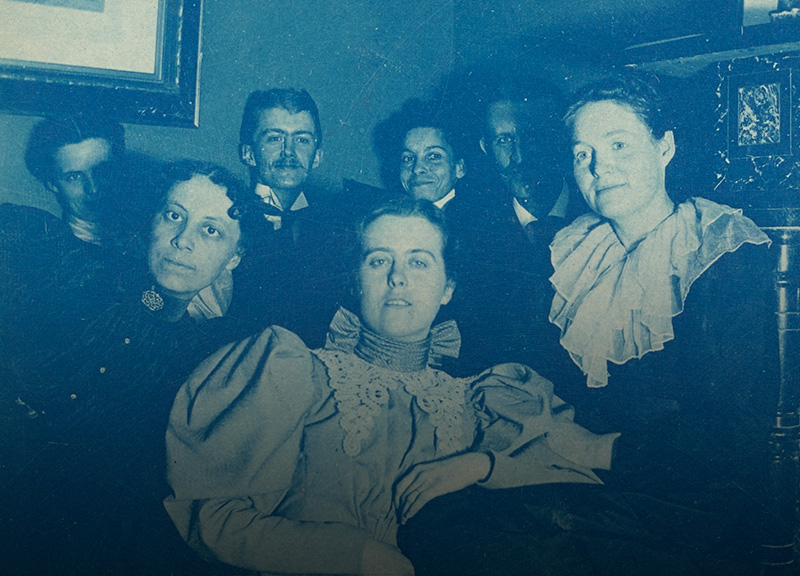
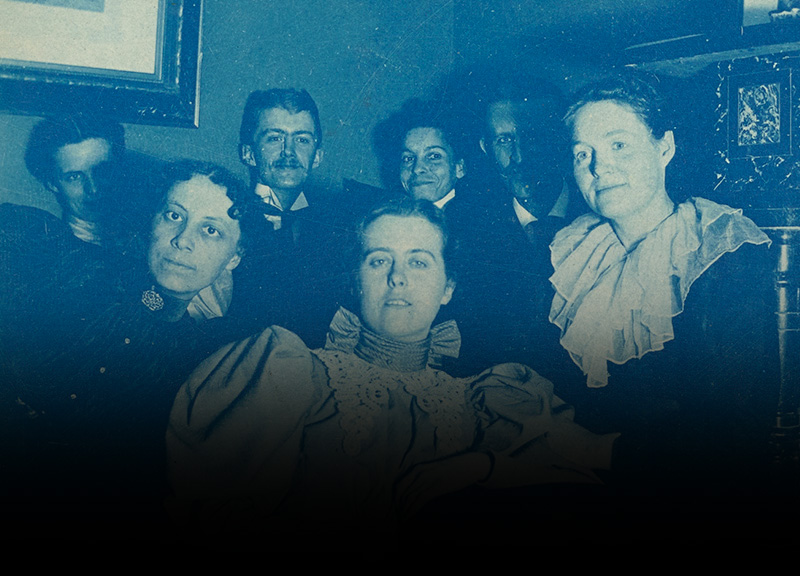
Slide show 2

diff --git a/css/front-page.css b/css/front-page.css
@@ -10,6 +10,42 @@
 }
 
 
+/*Indicator Test*/
+/* Indicators list style */
+.article-slide .carousel-indicators {
+    bottom: 0;
+    left: 0;
+    margin-left: 5px;
+    width: 100%;
+}
+/* Indicators list style */
+.article-slide .carousel-indicators li {
+    border: medium none;
+    border-radius: 0;
+    float: left;
+    height: 54px;
+    margin-bottom: 5px;
+    margin-left: 0;
+    margin-right: 5px !important;
+    margin-top: 0;
+    width: 100px;
+}
+/* Indicators images style */
+.article-slide .carousel-indicators img {
+    border: 2px solid #FFFFFF;
+    float: left;
+    height: 54px;
+    left: 0;
+    width: 100px;
+}
+/* Indicators active image style */
+.article-slide .carousel-indicators .active img {
+    border: 2px solid #428BCA;
+    opacity: 0.7;
+}
+/**/
+
+
 /* HEADER
 -----------------------------------*/
 
@@ -135,8 +171,9 @@
     color: gray;
     right: 10%;
     bottom: 30%;
+    z-index: 900;
     text-align: right;
-    text-shadow: 0 1px 2px rgba(0,0,0,0.6);
+    /*text-shadow: 0 1px 2px rgba(0,0,0,0.6);*/
     width: 400px;
     }
 /**/
@@ -148,11 +185,18 @@
 }
 .cap-date{
   font-size: 13px;
+  display: block;
 }
 
 .carousel-indicators {
     }
 
+.carousel-control .icon-next, .carousel-control .glyphicon-chevron-right {
+    right: 15%;
+}
+.carousel-control .icon-prev, .carousel-control .glyphicon-chevron-left {
+    left: 15%;
+}
 /*.carousel-caption a {
   color: rgba(255, 255, 255, 0.8);
 }
@@ -171,9 +215,23 @@
   text-decoration: none;
 }
 
+i.fa.fa-angle-left {
+    position: absolute;
+    top: 200px;
+    bottom: auto;
+    font-size: 60px;
+    left: 15%;
+}
 
+i.fa.fa-angle-right {
+    position: absolute;
+    top: 200px;
+    bottom: auto;
+    font-size: 60px;
+    right: 15%;
+}
 .scroll-hint {
-  z-index: 10;
+  z-index: 4000;
   position: fixed;
   padding-bottom: 10px;
   padding-top: 60px;
@@ -187,7 +245,6 @@
   background: -webkit-linear-gradient(top, rgba(0,0,0,0) 0%,rgba(0,0,0,0.89) 72%,rgba(0,0,0,0.9) 73%,rgba(0,0,0,0.9) 100%); /* Chrome10-25,Safari5.1-6 */
   background: linear-gradient(to bottom, rgba(0,0,0,0) 0%,rgba(0,0,0,0.89) 72%,rgba(0,0,0,0.9) 73%,rgba(0,0,0,0.9) 100%); /* W3C, IE10+, FF16+, Chrome26+, Opera12+, Safari7+ */
   filter: progid:DXImageTransform.Microsoft.gradient( startColorstr='#00000000', endColorstr='#e6000000',GradientType=0 ); /* IE6-9 */
-
   /*Animation*/
   opacity: 1;
   transition: opacity .50s ease-in-out;
@@ -206,15 +263,31 @@
     font-size: 18px;
     font-family: 'Merriweather', serif;
     text-transform: uppercase;
+    display: block;
 
   }
 
-.scroll-hint i {
-  color: white;
-  font-size: 30px;
+
+.scroll-hint{
+  color: gray;
+}
+.scroll-hint-title {
+  font-family: 'Merriweather', serif;
+  text-transform: uppercase;
 }
 
+.scroll-hint:hover,
+.scroll-hint:focus,
+i.fa.fa-angle-down:hover,
+i.fa.fa-angle-down:focus  {
+  color: white;
+  text-decoration: none;
+}
 
+i.fa.fa-angle-down {
+    display: block;
+    font-size: 30px;
+}
 .about-sec {
   padding: 100px 50px 100px 50px;
 }
@@ -332,10 +405,12 @@
     font-family: 'Merriweather', serif;
     display: block;
     color: white;
-    font-size: 25px;
+    font-size: 20px;
     position: absolute;
     bottom: 20px;
-    left: 20px;
+    text-align: center;
+    right: 0;
+    left: 0;
     font-weight: 100;
     }
 .box-odd{border-left: none;}
@@ -385,9 +460,9 @@
   bottom: 50px;
 }
 
-#carousel-example-generic img {
-    width: 100%;
-    height: auto;
+
+.mayb-signature {
+  width: 80%;
 }
 
 .vertical-line hr {
@@ -450,15 +525,9 @@ div.vertical-line{
 }*/
 
 /* Tallest Screens */
-/*@media (min-height: 1100px) {
-  .scroll-hint {
-    padding-bottom: 60px;
-    padding-top: 150px;
-  }
-  .tagline-hint{
-    padding-bottom: 400px;
-  }
-}*/
+@media (min-height: 1100px) {
+  .scroll-hint {display: none;}
+}
 
 /* Width Based */
 @media (max-width: 768px) {

diff --git a/js/nav.js b/js/nav.js
@@ -11,13 +11,13 @@ $(window).scroll(function() {
         $('.navbar').addClass("fixed"); // Navbar moves to position:fixed
         $('.carousel-inner').addClass("space"); // Spacer
         $('.scroll-hint').addClass("test");
-       $('.header-search').addClass("show");
+      //  $('.header-search').addClass("show");
     }
     else{
         $('.navbar').removeClass("fixed");
         $('.carousel-inner').removeClass("space");
         $('.scroll-hint').removeClass("test");
-       $('.header-search').removeClass("show");
+        //$('.header-search').removeClass("show");
 
     }
 });

diff --git a/css/nav.css b/css/nav.css
@@ -24,13 +24,14 @@ portion.
 .header-search .btn {
     margin: 8px 0px 0px 0px;
     border-radius: 0 5px 5px 0;
+    border-color: white;
     }
 
 .header-search .form-control{
     border-radius: 5px 0 0 5px;
     }
 
-.header-search {display: none;}
+/*.header-search {display: none;}*/
 .header-search.show{
     display: block;
       }

diff --git a/templates/page--front.tpl.php b/templates/page--front.tpl.php
@@ -93,7 +93,6 @@
 <!--============== CAROUSEL  ==============-->
 <div id="carousel-example-generic" class="carousel slide no-mobile" data-ride="=">
   <!-- Indicators -->
-  <!-- <ol class="carousel-indicators"> -->
   <ol class="carousel-indicators">
     <li data-target="#carousel-example-generic" data-slide-to="0" class="active">    </li>
     <li data-target="#carousel-example-generic" data-slide-to="1"></li>
@@ -103,29 +102,50 @@
   <!-- Wrapper for slides -->
   <div class="carousel-inner" role="listbox">
     <div class="item active">
-      <img src="<?php print base_path() . drupal_get_path('theme', 'may_bragdon_theme');?>/images/slide-002.jpg" />
+      <img src="<?php print base_path() . drupal_get_path('theme', 'may_bragdon_theme');?>/images/slide-001.jpg" />
       <div class="content">
         <div class="car-cap">
           <a href="#">
           <span class="cap-quote">"Today I rode into town like a conquering hero..."</span>
           <span class="cap-date">February 25, 1897 p.67</span>
           </a>
+          <img class="mayb-signature" src="<?php print base_path() . drupal_get_path('theme', 'may_bragdon_theme');?>/images/may-b-logo.png" />
         </div>
       </div>
     </div>
     <div class="item">
       <img src="<?php print base_path() . drupal_get_path('theme', 'may_bragdon_theme');?>/images/slide-002.jpg" />
-      <div class="carousel-caption"><a href="#"><span class="">February 25, 1897</span></a></div>
+      <div class="car-cap">
+        <a href="#">
+        <span class="cap-quote">"There was a fire that would be remembered for ages..."</span>
+        <span class="cap-date">February 25, 1897 p.67</span>
+        </a>
+        <img class="mayb-signature" src="<?php print base_path() . drupal_get_path('theme', 'may_bragdon_theme');?>/images/may-b-logo.png" />
+      </div>
     </div>
-  </div>
+    <div class="item">
+      <img src="<?php print base_path() . drupal_get_path('theme', 'may_bragdon_theme');?>/images/slide-003.jpg" />
+      <div class="content">
+        <div class="car-cap">
+          <a href="#">
+          <span class="cap-quote">"Today I rode into town like a conquering hero..."</span>
+          <span class="cap-date">February 25, 1897 p.67</span>
+          </a>
+          <img class="mayb-signature" src="<?php print base_path() . drupal_get_path('theme', 'may_bragdon_theme');?>/images/may-b-logo.png" />
+        </div>
+      </div>
+    </div>
 
+  </div>
   <!-- Controls -->
   <a class="left carousel-control" href="#carousel-example-generic" role="button" data-slide="prev">
-    <span class="glyphicon glyphicon-chevron-left" aria-hidden="true"></span>
+    <!-- <span class="glyphicon glyphicon-chevron-left" aria-hidden="true"></span> -->
+    <i class="fa fa-angle-left"></i>
     <span class="sr-only">Previous</span>
   </a>
   <a class="right carousel-control" href="#carousel-example-generic" role="button" data-slide="next">
-    <span class="glyphicon glyphicon-chevron-right" aria-hidden="true"></span>
+    <!-- <span class="glyphicon glyphicon-chevron-right" aria-hidden="true"></span> -->
+    <i class="fa fa-angle-right"></i>
     <span class="sr-only">Next</span>
   </a>
 </div>
@@ -137,7 +157,52 @@
 </div>
 
 
+<span class="glyphicon glyphicon-menu-down" aria-hidden="true"></span>
 
+<div>
+  <a class="scroll-hint" href="#">
+    <span class="scroll-hint-title">More Info</span>
+    <i class="fa fa-angle-down"></i>
+  </a>
+</div>
+
+
+<!--=========== carousel test =========== -->
+<div class="carousel slide article-slide" id="article-photo-carousel">
+
+  <!-- Wrapper for slides -->
+  <div class="carousel-inner cont-slider">
+
+    <div class="item active">
+      <img alt="" title="" src="http://placehold.it/600x400">
+    </div>
+    <div class="item">
+      <img alt="" title="" src="http://placehold.it/600x400">
+    </div>
+    <div class="item">
+      <img alt="" title="" src="http://placehold.it/600x400">
+    </div>
+    <div class="item">
+      <img alt="" title="" src="http://placehold.it/600x400">
+    </div>
+  </div>
+  <!-- Indicators -->
+  <ol class="carousel-indicators">
+    <li class="active" data-slide-to="0" data-target="#article-photo-carousel">
+      <img alt="" src="http://placehold.it/250x180">
+    </li>
+    <li class="" data-slide-to="1" data-target="#article-photo-carousel">
+      <img alt="" src="http://placehold.it/250x180">
+    </li>
+    <li class="" data-slide-to="2" data-target="#article-photo-carousel">
+      <img alt="" src="http://placehold.it/250x180">
+    </li>
+    <li class="" data-slide-to="3" data-target="#article-photo-carousel">
+      <img alt="" src="http://placehold.it/250x180">
+    </li>
+  </ol>
+</div>
+<!-- // -->
 
 <!-- <div class="scroll-hint">
   <div class="hp-search-big">
@@ -156,6 +221,7 @@
   <div class="scroll-hint-text"><a href="#begin">Diaries</a></div>
   <a href="#begin"><i class="fa fa-chevron-down"></i></a>
 </div> -->
+
 
 
 <!--============== ABOUT SECTION ==============-->

diff --git a/templates/page--front2.tpl.php b/templates/page--front2.tpl.php
@@ -93,11 +93,11 @@
 <!--============== CAROUSEL  ==============-->
 <div id="carousel-example-generic" class="carousel slide no-mobile" data-ride="">
   <!-- Indicators -->
-  <ol class="carousel-indicators">
+  <!-- <ol class="carousel-indicators">
     <li data-target="#carousel-example-generic" data-slide-to="0" class="active"></li>
     <li data-target="#carousel-example-generic" data-slide-to="1"></li>
     <li data-target="#carousel-example-generic" data-slide-to="2"></li>
-  </ol>
+  </ol> -->
 
   <!-- Wrapper for slides -->
   <div class="carousel-inner" role="listbox">

diff --git a/README.md b/README.md
@@ -20,6 +20,7 @@ Before you install please make sure your Drupal instance meets the following req
 - [Bootstrap](https://drupal.org/project/bootstrap) 7.x-2.0 or 7.x-3.0 (base-theme must be enabled).
 - [jQuery Update](https://drupal.org/project/jquery_update) jQuery Update - 7.x-2.4 or higher. Bootstrap 2 requires a minimum jQuery version of 1.7 or higher, while Bootstrap 3 requires jQuery 1.9+
 - If using the [bootstrap carousel](http://getbootstrap.com/javascript/#carousel) you must make a change to the parent theme to fix the **next** & **previous** buttons issue [follow these instructions](https://www.drupal.org/node/2233127).
+- [Font-Awesome](https://www.drupal.org/project/fontawesome) This theme uses fontawesome. You must have it installed in order for the icons to show up.
 
 
 ### Installation
